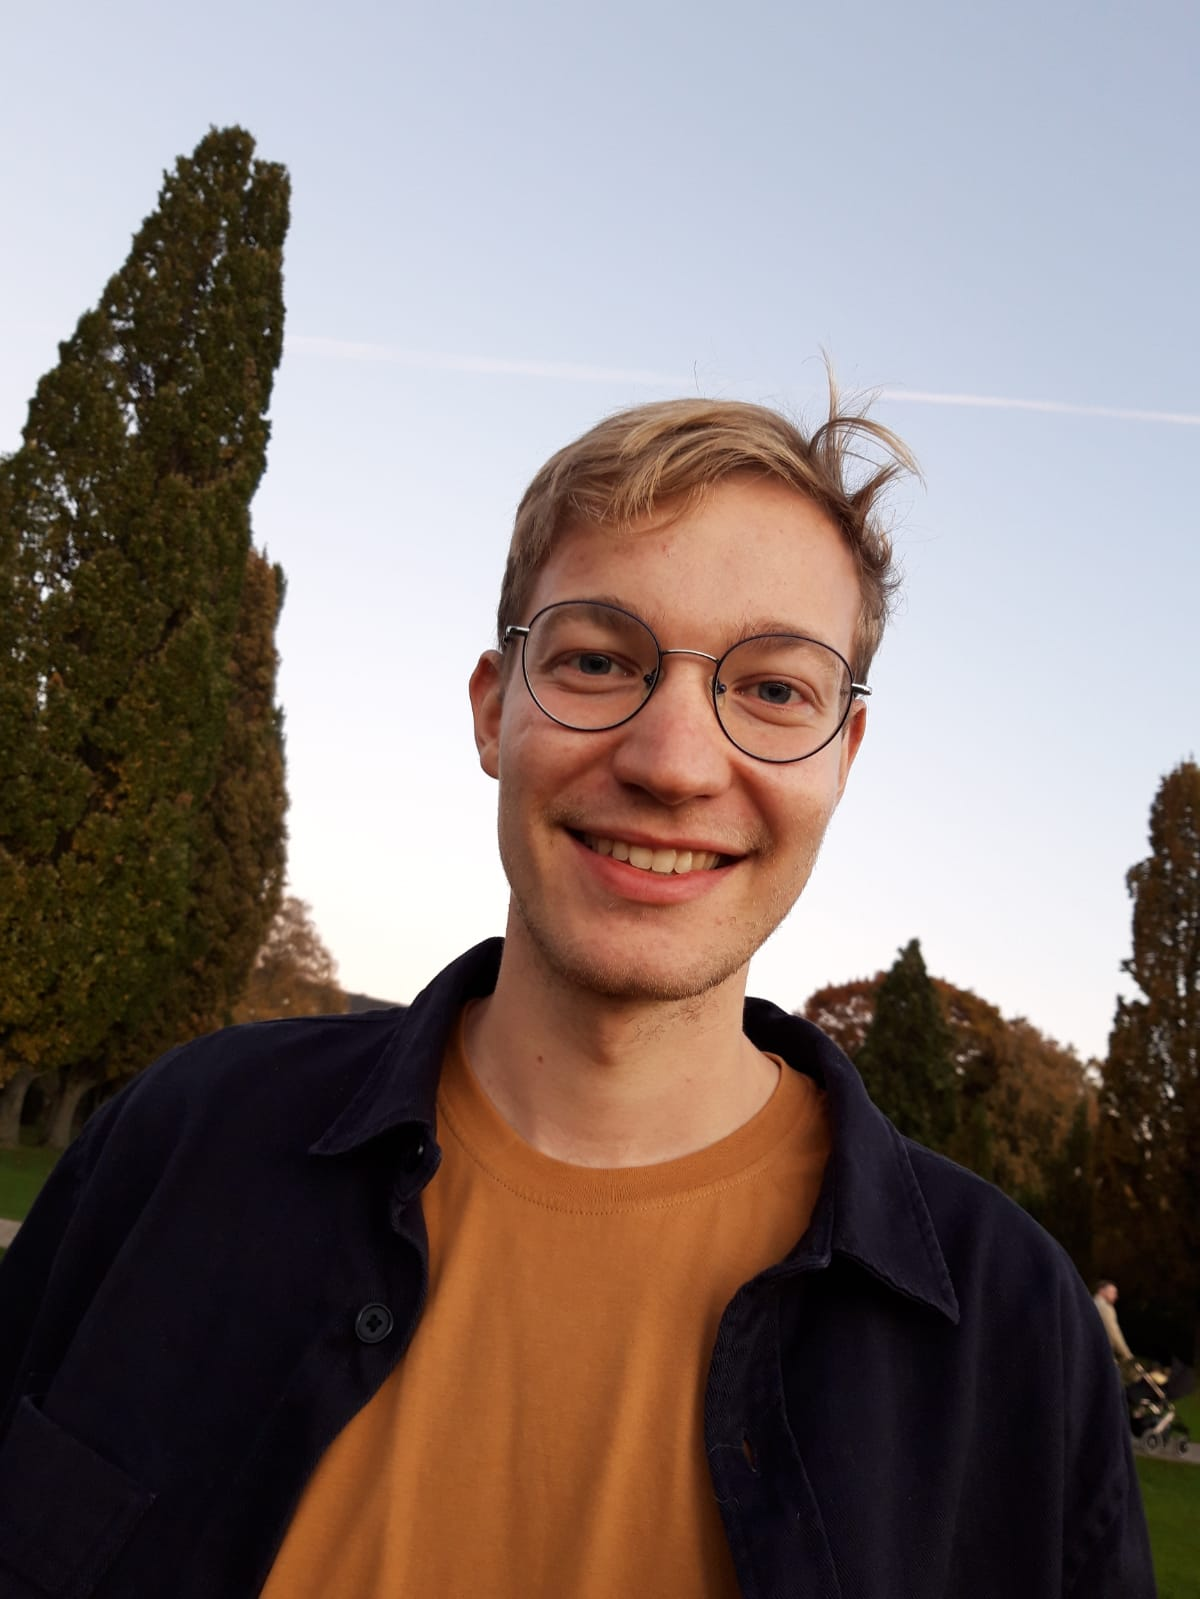
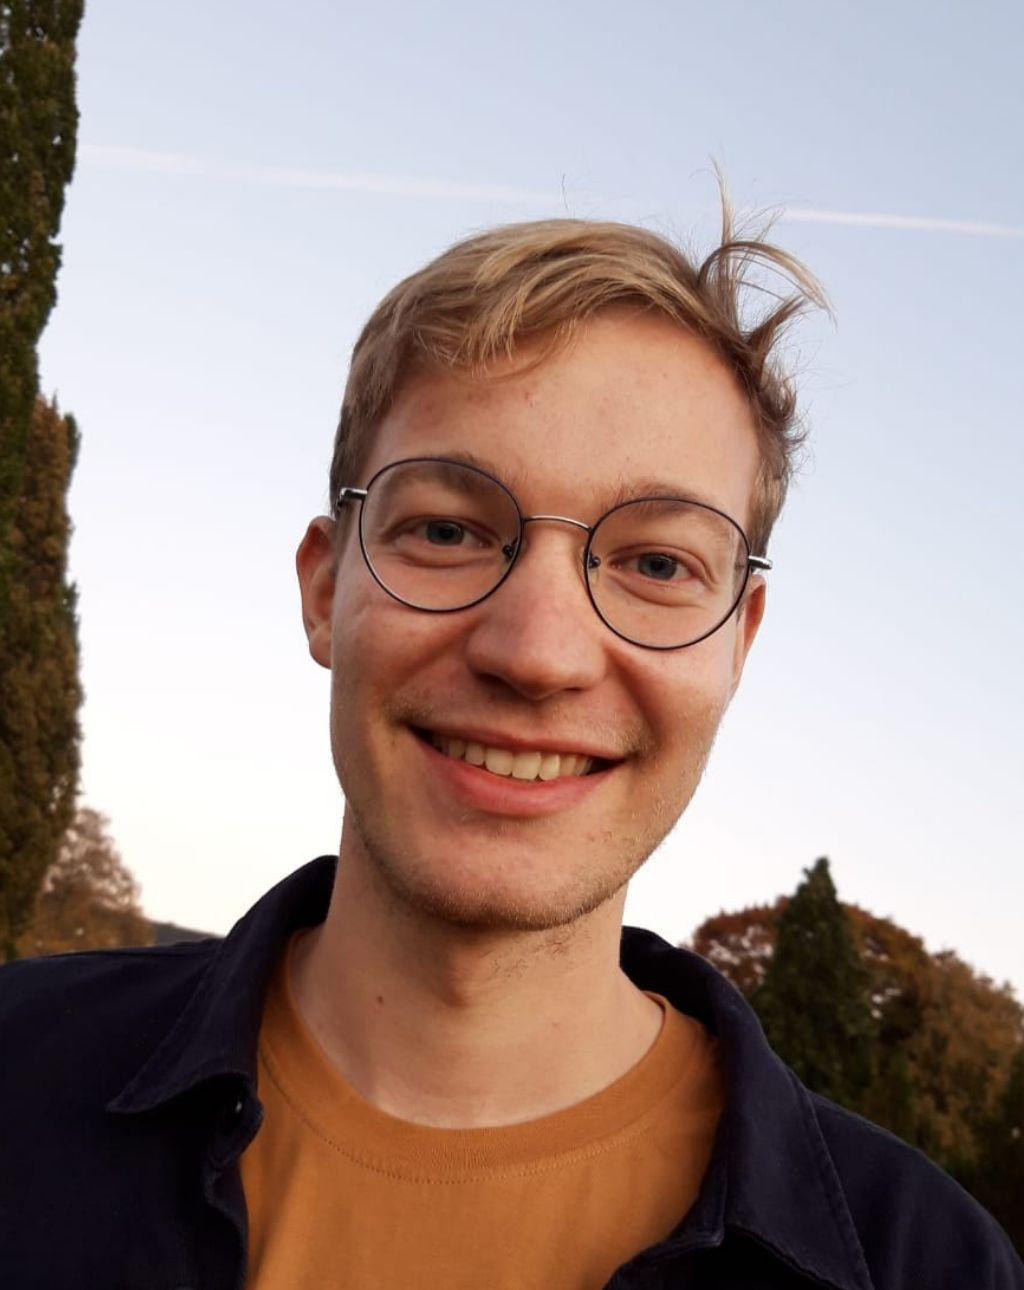
foto

diff --git a/index.md b/index.md
@@ -5,7 +5,7 @@
 layout: home
 ---
 
-![Profile](profile.jpg){: width="150"}{: style="float: right"}
+![Profile](profile.jpg){: width="180"}{: style="float: right"}
 
 Hi! I am a researcher in Causality. Currently, I am working towards a PhD in Computer Science at the University of Lübeck. My main interests lie in developing robust and efficient algorithms for causal inference and analysis. My most recent work has been about problems on so-called Markov equivalence classes of DAGs, which typically arise in causal discovery from observational data. 
 
